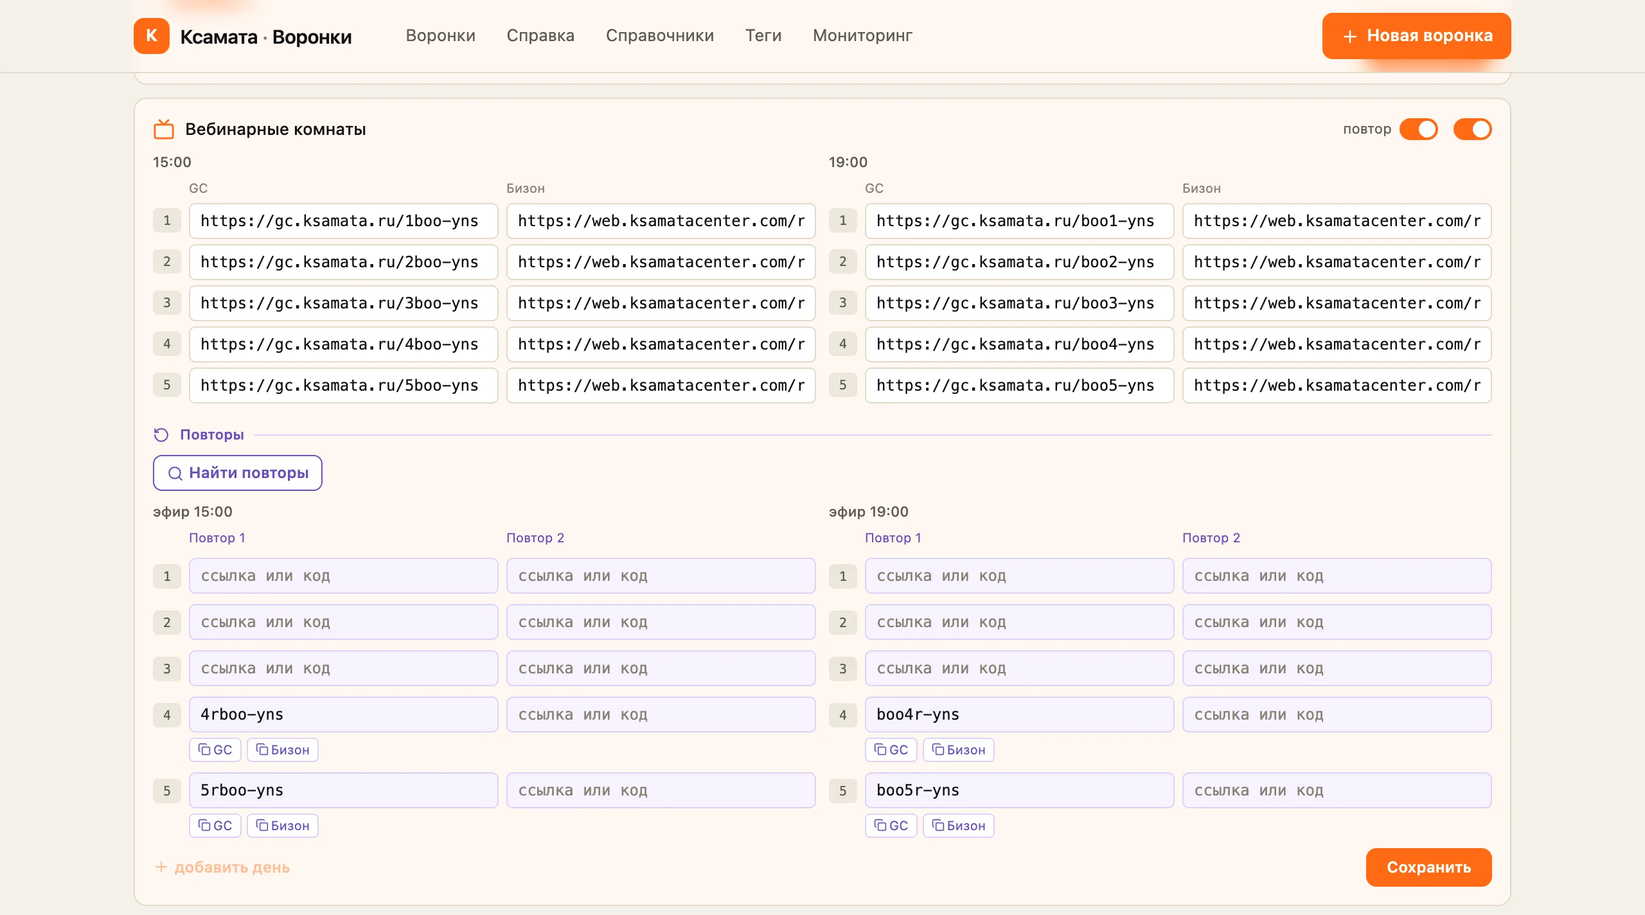
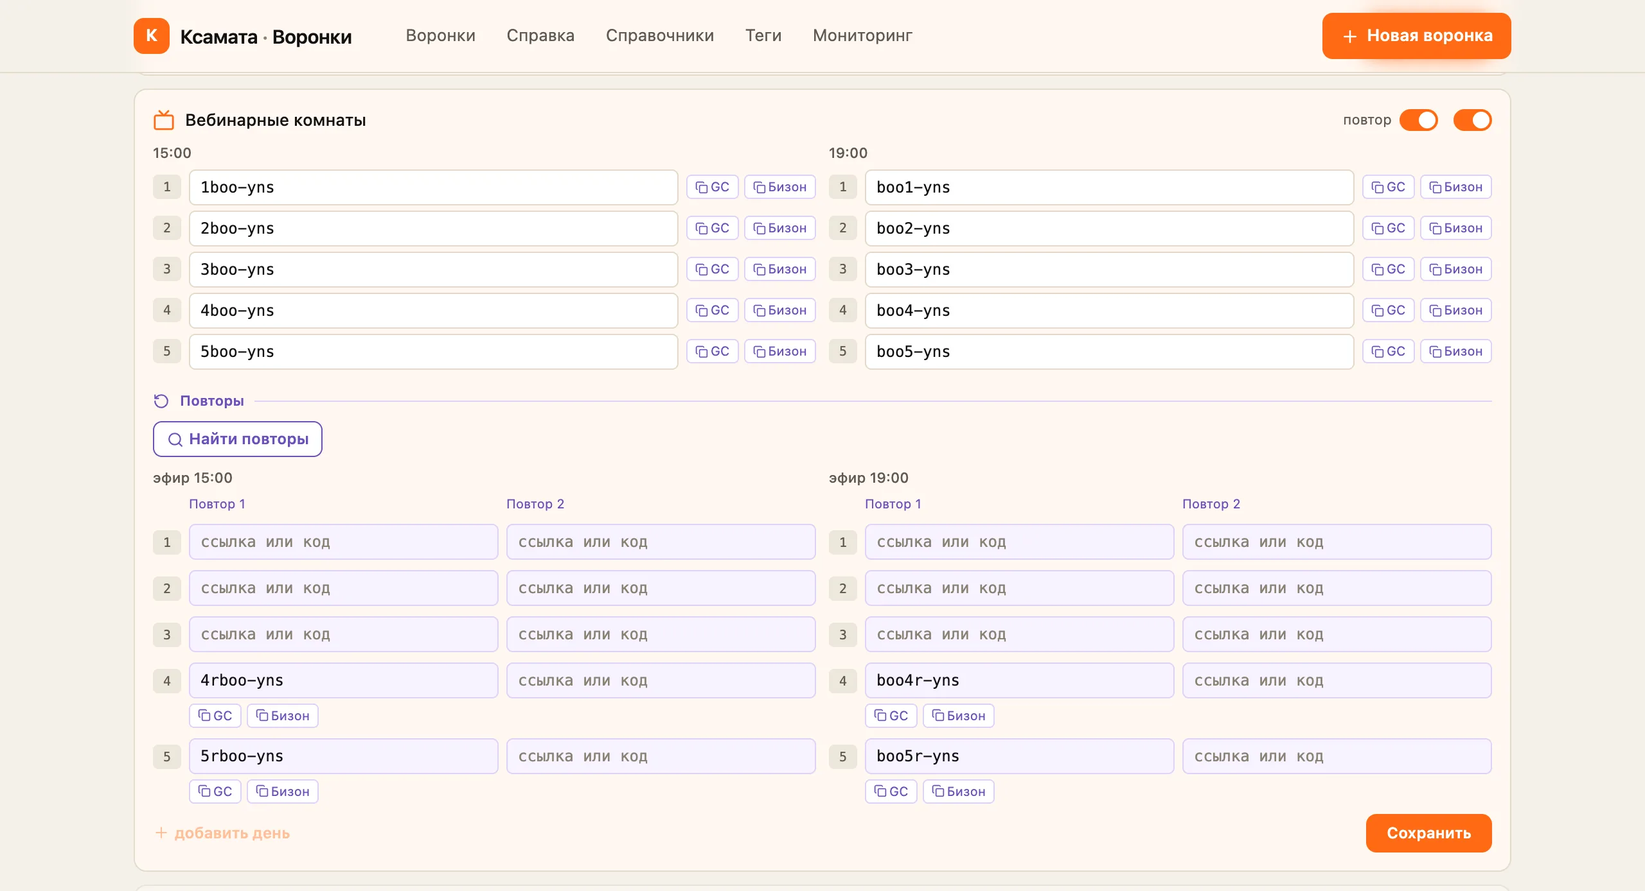
feat(комнаты): одно поле на комнату эфира
Сетка эфиров устроена так же, как повторы: одно поле на день, в нём код
комнаты, рядом кнопки «GC» и «Бизон» копируют полную ссылку. В поле можно
вставить ссылку ГетКурса, Бизона на нашем домене, start.bizon365.ru или
просто код — сохраняется пара GC + Бизон (withLiveLink).

Два поля с выводом Бизона из GC на выходе из поля больше не нужны: во всех
584 днях базы слаги GC и Бизона совпадают. Справка и снимок 05-rooms
пересняты под новую сетку.

diff --git a/app/src/components/RoomsEditor.tsx b/app/src/components/RoomsEditor.tsx
@@ -3,13 +3,12 @@
 import { useEffect, useMemo, useRef, useState } from 'react';
 import { Tv, Plus, X, Wand2, RotateCcw, Search } from 'lucide-react';
 import Switch from './Switch';
-import UrlInput from './UrlInput';
 import CopyChip from './CopyChip';
 import type { DayCell } from '@/lib/funnel-days';
-import { gcRoomUrl, roomSlugFromUrl, webRoomFromGc, webRoomUrl } from '@/lib/room-urls';
+import { gcRoomUrl, roomSlugFromUrl, webRoomUrl } from '@/lib/room-urls';
 import {
   SLOTS, appendDay, buildGrid, cellsFromGrid, commonReplayTime, fillRoomGrid, gridKey as key,
-  replayInputValue, replayOf, withFoundReplay, withReplayLink,
+  liveInputValue, replayInputValue, replayOf, withFoundReplay, withLiveLink, withReplayLink,
   type ReplayN, type RoomCell as Cell, type RoomGrid as Grid,
 } from '@/lib/rooms-grid';
 import type { FindResult } from '@/lib/replay-finder';
@@ -67,10 +66,6 @@ export default function RoomsEditor({ funnelId, initialDays, enabled: enabledPro
   const onDirtyChangeRef = useRef(onDirtyChange);
   onDirtyChangeRef.current = onDirtyChange;
   useEffect(() => { onDirtyChangeRef.current?.(dirty); }, [dirty]);
-
-  function set(slot: string, day: number, field: keyof Cell, value: string) {
-    setGrid((p) => ({ ...p, [key(slot, day)]: { ...p[key(slot, day)], [field]: value } }));
-  }
 
   const [marks, setMarks] = useState<Record<string, ReplayMark>>({});
   const [finding, setFinding] = useState(false);
@@ -157,16 +152,11 @@ export default function RoomsEditor({ funnelId, initialDays, enabled: enabledPro
     }
   }
 
-  // When the GC field is filled and Web left empty, derive Web from the GC
-  // slug on blur (the slug is shared between the two platforms).
-  function autofillWeb(slot: string, day: number) {
-    setGrid((p) => {
-      const c = p[key(slot, day)];
-      if (c.webRoom.trim() !== '') return p;
-      const web = webRoomFromGc(c.gcRoom);
-      if (!web) return p;
-      return { ...p, [key(slot, day)]: { ...c, webRoom: web } };
-    });
+  // Поле эфира одно: вставленное раскладывается в пару GC + Бизон сразу
+  // (withLiveLink), поэтому выводить Бизон из GC на выходе из поля больше
+  // незачем.
+  function setLiveLink(slot: string, day: number, value: string) {
+    setGrid((p) => ({ ...p, [key(slot, day)]: withLiveLink(p[key(slot, day)], value) }));
   }
 
   // Сетка, достроенная по уже заполненным ячейкам. Кнопка предлагается ровно
@@ -291,25 +281,20 @@ export default function RoomsEditor({ funnelId, initialDays, enabled: enabledPro
         </span>
       </div>
 
-      {/* Two slot columns side by side; stacked on narrow screens where a
-          half-width column leaves each URL input only ~55px. */}
+      {/* Two slot columns side by side; stacked on narrow screens. Одно поле
+          на комнату, кнопки копирования GC / Бизон — в той же строке, чтобы
+          сетка эфиров не стала выше прежней. */}
       <div className="flex flex-col gap-4 sm:flex-row sm:gap-2.5">
         {SLOTS.map((slot) => (
           <div key={slot} className="min-w-0 flex-1">
             <div className="mb-1 text-[11px] font-medium text-[var(--muted)]">{labels[slot]}</div>
-            <div className="grid items-center gap-x-1.5 gap-y-1" style={{ gridTemplateColumns: gtc }}>
-              <span /><span className="text-[10px] text-[var(--faint)]">GC</span>
-              <span className="text-[10px] text-[var(--faint)]">Бизон</span>
-              {Array.from({ length: dayCount }, (_, idx) => idx + 1).map((day) => {
-                const c = grid[key(slot, day)];
-                return (
-                  <FragmentRow key={day} day={day} cell={c} canEdit={canEdit}
-                    canRemove={canEdit && dayCount > 1}
-                    onRemove={() => removeDay(day)}
-                    onChange={(f, v) => set(slot, day, f, v)}
-                    onGcBlur={() => autofillWeb(slot, day)} />
-                );
-              })}
+            <div className="grid items-center gap-x-1.5 gap-y-1" style={{ gridTemplateColumns: '22px minmax(0,1fr) auto' }}>
+              {Array.from({ length: dayCount }, (_, idx) => idx + 1).map((day) => (
+                <LiveRow key={day} day={day} cell={grid[key(slot, day)]} canEdit={canEdit}
+                  canRemove={canEdit && dayCount > 1}
+                  onRemove={() => removeDay(day)}
+                  onChange={(v) => setLiveLink(slot, day, v)} />
+              ))}
             </div>
           </div>
         ))}
@@ -369,7 +354,7 @@ export default function RoomsEditor({ funnelId, initialDays, enabled: enabledPro
           </button>
           {canFill && (
             <button type="button" onClick={() => setGrid(filled)}
-              title="Достроить пустые ячейки по образцу заполненных: другой день, второе время, Бизон из GC"
+              title="Достроить пустые ячейки эфиров по образцу заполненных: другой день, второе время"
               className="flex items-center gap-1 text-[12px] font-semibold text-[var(--orange)]">
               <Wand2 size={13} /> Заполнить остальные
             </button>
@@ -459,17 +444,16 @@ function ReplayField({ cell, n, canEdit, showTime, mark, onChange }: {
   );
 }
 
-function FragmentRow({ day, cell, canEdit, canRemove, onRemove, onChange, onGcBlur }: {
+/**
+ * Строка дня в сетке эфиров: номер дня (с крестиком удаления), одно поле с
+ * кодом комнаты и кнопки копирования полных ссылок.
+ */
+function LiveRow({ day, cell, canEdit, canRemove, onRemove, onChange }: {
   day: number; cell: Cell;
   canEdit: boolean; canRemove: boolean; onRemove: () => void;
-  onChange: (field: 'gcRoom' | 'webRoom', value: string) => void;
-  onGcBlur: () => void;
+  onChange: (value: string) => void;
 }) {
-  const inp = 'h-7 w-full min-w-0 rounded-[5px] border border-[var(--line-soft)] bg-white px-2 font-mono text-[12px] text-[var(--ink)]';
-  // Autofill Web only when the GC value actually changed during this focus —
-  // tabbing through an untouched GC field must not resurrect a Web link the
-  // employee deliberately cleared.
-  const gcOnFocus = useRef<string | null>(null);
+  const slug = roomSlugFromUrl(cell.webRoom) ?? roomSlugFromUrl(cell.gcRoom);
   return (
     <>
       <span className="group/day relative rounded-[4px] bg-[var(--chip)] py-[2px] text-center font-mono text-[10px] text-[var(--muted)]">
@@ -486,13 +470,21 @@ function FragmentRow({ day, cell, canEdit, canRemove, onRemove, onChange, onGcBl
           </button>
         )}
       </span>
-      <UrlInput className={inp} value={cell.gcRoom} placeholder="gc…" readOnly={!canEdit} onChange={(v) => onChange('gcRoom', v)}
-        onFocus={() => { gcOnFocus.current = cell.gcRoom; }}
-        onBlur={() => {
-          if (gcOnFocus.current !== cell.gcRoom) onGcBlur();
-          gcOnFocus.current = null;
-        }} />
-      <UrlInput className={inp} value={cell.webRoom} placeholder="бизон…" readOnly={!canEdit} onChange={(v) => onChange('webRoom', v)} />
+      {/* Обычное поле, не UrlInput — по доводу ReplayField: в поле код, а
+          ссылки копируют кнопки рядом. */}
+      <input className={LIVE_INPUT} value={liveInputValue(cell)} placeholder="ссылка или код" readOnly={!canEdit}
+        title={cell.webRoom || cell.gcRoom || undefined} spellCheck={false}
+        onChange={(e) => onChange(e.target.value)} />
+      <span className="flex gap-1">
+        {slug && (
+          <>
+            <CopyChip label="GC" url={cell.gcRoom || gcRoomUrl(slug)} />
+            <CopyChip label="Бизон" url={cell.webRoom || webRoomUrl(slug)} />
+          </>
+        )}
+      </span>
     </>
   );
 }
+
+const LIVE_INPUT = 'h-7 w-full min-w-0 rounded-[5px] border border-[var(--line-soft)] bg-white px-2 font-mono text-[12px] text-[var(--ink)]';

diff --git a/app/src/app/help/page.tsx b/app/src/app/help/page.tsx
@@ -400,37 +400,35 @@ export default function HelpPage() {
 
         <Sub>Вебинарные комнаты</Sub>
         <P>
-          Сетка «эфир × день», до пяти дней. В ячейке два поля:{' '}
-          <Code>GC</Code> — страница комнаты в GetCourse, <Code>Бизон</Code> —
-          сама вебинарная комната на нашем домене. Под сеткой — повторы, до
-          двух на день; раздел появляется тумблером «повтор».
+          Сетка «эфир × день», до пяти дней. В ячейке одно поле: в него
+          вставляют любую ссылку на комнату или просто её код, а сохраняются
+          две ссылки — <Code>GC</Code> (страница комнаты в GetCourse) и{' '}
+          <Code>Бизон</Code> (сама вебинарная комната на нашем домене). Кнопки
+          рядом с полем копируют полную ссылку. Под сеткой — повторы, до двух
+          на день; раздел появляется тумблером «повтор».
         </P>
         <Shot
           src="/help/05-rooms.webp"
           alt="Сетка вебинарных комнат: два эфира по пять дней и повторы под ними"
           width={2560}
-          height={1424}
+          height={1388}
           markers={[
-            { n: 1, x: 94, y: 14.1, text: 'Слева тумблер раздела «повтор», справа — тумблер всей секции.' },
-            { n: 2, x: 4.5, y: 17.7, text: 'Два эфира рядом; подписи те же, что и в блоках.' },
-            { n: 3, x: 48, y: 17.7, text: 'Колонки: GC — страница в GetCourse, Бизон — сама комната.' },
-            { n: 4, x: 4.5, y: 24, text: 'Номер дня. Наведите — появится крестик, чтобы удалить день.' },
-            { n: 5, x: 4.5, y: 51.6, text: '«Найти повторы» проверяет на Бизоне, какие повторы есть, и вписывает найденные вместе со временем показа.' },
-            { n: 6, x: 4.5, y: 81.8, text: 'В поле повтора — ссылка или код комнаты; кнопки под ним копируют полную ссылку GC или Бизон.' },
-            { n: 7, x: 4.5, y: 94.8, text: 'Добавить день, всего их может быть до пяти.' },
-            { n: 8, x: 94, y: 94.8, text: 'Сохранить сетку.' },
+            { n: 1, x: 94, y: 13.5, text: 'Слева тумблер раздела «повтор», справа — тумблер всей секции.' },
+            { n: 2, x: 4.5, y: 17.2, text: 'Два эфира рядом; подписи те же, что и в блоках.' },
+            { n: 3, x: 94, y: 21, text: 'Поле комнаты: ссылка или код; кнопки рядом копируют полную ссылку GC или Бизон.' },
+            { n: 4, x: 4.5, y: 24.6, text: 'Номер дня. Наведите — появится крестик, чтобы удалить день.' },
+            { n: 5, x: 4.5, y: 49.3, text: '«Найти повторы» проверяет на Бизоне, какие повторы есть, и вписывает найденные вместе со временем показа.' },
+            { n: 6, x: 4.5, y: 84.7, text: 'В поле повтора — ссылка или код комнаты; кнопки под ним копируют полную ссылку GC или Бизон.' },
+            { n: 7, x: 4.5, y: 93.4, text: 'Добавить день, всего их может быть до пяти.' },
+            { n: 8, x: 94, y: 93.4, text: 'Сохранить сетку.' },
           ]}
         />
         <List>
           <li>
-            Заполните <Code>GC</Code> и уйдите из поля — <Code>Бизон</Code>{' '}
-            подставится сам, если был пустой.
-          </li>
-          <li>
             «Заполнить остальные» достроит всю сетку по уже заполненным
-            ячейкам: другой день, второе время, <Code>Бизон</Code> из{' '}
-            <Code>GC</Code>. Трогает только пустые поля, чужое не затрёт. Одной
-            введённой комнаты обычно хватает на всю сетку.
+            ячейкам эфиров: другой день, второе время. Трогает только пустые
+            поля, чужое не затрёт. Одной введённой комнаты обычно хватает на
+            всю сетку. Повторы она не трогает — для них есть «Найти повторы».
           </li>
           <li>
             «Добавить день» добавляет строку и сразу выводит её по тем же

diff --git a/app/tests/replays.test.ts b/app/tests/replays.test.ts
@@ -11,7 +11,7 @@ import {
 import { parseBizonRoomPage } from '../src/lib/bizon-room-page';
 import { findReplays, type FetchFn } from '../src/lib/replay-finder';
 import {
-  buildGrid, commonReplayTime, emptyCell, gridKey, replayInputValue, withFoundReplay, withReplayLink,
+  buildGrid, commonReplayTime, emptyCell, gridKey, liveInputValue, replayInputValue, withFoundReplay, withLiveLink, withReplayLink,
 } from '../src/lib/rooms-grid';
 
 const ALIVE = (ms: number) =>
@@ -206,5 +206,41 @@ describe('поле повтора в сетке', () => {
     g = { ...g, [gridKey('15', 3)]: withFoundReplay(g[gridKey('15', 3)], 1, 'cvc3r-15-yan', '20:00') };
     expect(commonReplayTime(g, '15', 1, 3)).toBeNull();
     expect(commonReplayTime(g, '15', 2, 3)).toBeNull();
+  });
+});
+
+describe('поле эфира в сетке', () => {
+  it('любой из трёх адресов или код раскладывается в пару GC + Бизон', () => {
+    for (const raw of [
+      'https://gc.ksamata.ru/cvc3-15-yan',
+      'https://web.ksamatacenter.com/room/cvc3-15-yan',
+      'https://start.bizon365.ru/room/135662/cvc3-15-yan',
+      'cvc3-15-yan',
+    ]) {
+      const c = withLiveLink(emptyCell(), raw);
+      expect(c.gcRoom).toBe('https://gc.ksamata.ru/cvc3-15-yan');
+      expect(c.webRoom).toBe('https://web.ksamatacenter.com/room/cvc3-15-yan');
+      expect(liveInputValue(c)).toBe('cvc3-15-yan');
+    }
+  });
+
+  it('не комнатный текст ложится в GC как есть, Бизон пуст', () => {
+    const c = withLiveLink(emptyCell(), 'https://gc.ksamata.ru/svs/bonus1');
+    expect(c.gcRoom).toBe('https://gc.ksamata.ru/svs/bonus1');
+    expect(c.webRoom).toBe('');
+    expect(liveInputValue(c)).toBe('https://gc.ksamata.ru/svs/bonus1');
+  });
+
+  it('повторы при правке эфира не трогаются', () => {
+    const withReplay = withFoundReplay(emptyCell(), 1, 'cvc3r-15-yan', '19:00');
+    const c = withLiveLink(withReplay, 'cvc3-15-yan');
+    expect(c.replayUrl).toBe('https://gc.ksamata.ru/cvc3r-15-yan');
+    expect(c.replayTime).toBe('19:00');
+  });
+
+  it('очистка поля очищает обе ссылки', () => {
+    const c = withLiveLink(withLiveLink(emptyCell(), 'cvc3-15-yan'), '');
+    expect(c.gcRoom).toBe('');
+    expect(c.webRoom).toBe('');
   });
 });

diff --git a/app/src/lib/rooms-grid.ts b/app/src/lib/rooms-grid.ts
@@ -102,6 +102,30 @@ export function withReplayLink(cell: RoomCell, n: ReplayN, raw: string): RoomCel
   return next;
 }
 
+// ── Эфир ─────────────────────────────────────────────────────────────────────
+//
+// Поле эфира устроено так же, как поле повтора: одно на комнату, показывает
+// код, хранит пару GC + Бизон. До 29.09.2026 у эфира было два поля, и Бизон
+// выводился из GC на выходе из поля; с одним полем выводить нечего — пара
+// пишется сразу. Разойтись паре негде: во всех 584 днях живой базы слаги GC и
+// Бизона совпадают (замер 29.09), так что код в поле однозначен.
+
+/** Что показывать в поле эфира: код комнаты, а не комнатный адрес — как есть. */
+export function liveInputValue(cell: RoomCell): string {
+  return roomSlugFromUrl(cell.webRoom) ?? roomSlugFromUrl(cell.gcRoom) ?? (cell.webRoom || cell.gcRoom);
+}
+
+/**
+ * Записать вставленное в поле эфира: любой из трёх адресов комнаты или код →
+ * пара GC + Бизон; прочее — в GC как есть, Бизон пуст (как у повтора).
+ */
+export function withLiveLink(cell: RoomCell, raw: string): RoomCell {
+  const slug = slugFromInput(raw);
+  return slug
+    ? { ...cell, gcRoom: gcRoomUrl(slug), webRoom: webRoomUrl(slug) }
+    : { ...cell, gcRoom: raw, webRoom: '' };
+}
+
 /** Повтор, найденный на Бизоне: ссылка по слагу и время со страницы. */
 export function withFoundReplay(cell: RoomCell, n: ReplayN, slug: string, time: string | null): RoomCell {
   const k = REPLAY_KEYS[n];

diff --git a/CLAUDE.md b/CLAUDE.md
@@ -456,6 +456,11 @@ source of truth. **Always mutate tags through `createFunnel`/`updateFunnel`
   любой из трёх адресов или код комнаты (`withReplayLink`), сохраняются GC и
   Web, а показывается код — от полного адреса в половине ширины видно только
   «https://web.ksam».
+  **Поле эфира с 29.09.2026 устроено так же** (`withLiveLink`,
+  `liveInputValue`): одно на комнату, код в поле, кнопки «GC» / «Бизон» в той
+  же строке. Прежние два поля с выводом Бизона из GC на выходе из поля ушли:
+  во всех 584 днях слаги GC и Бизона совпадают, и второе поле ничего не
+  добавляло. Не комнатный адрес ложится в `gc_room` как есть, `web_room` пуст.
 - `funnel-compact.ts` — grouping/visibility for the compact view.
 - `export.ts` — build export rows + CSV serialization. Fields starting with
   `=`, `+`, `-`, `@`, TAB or CR get a leading apostrophe: the route serves a BOM
